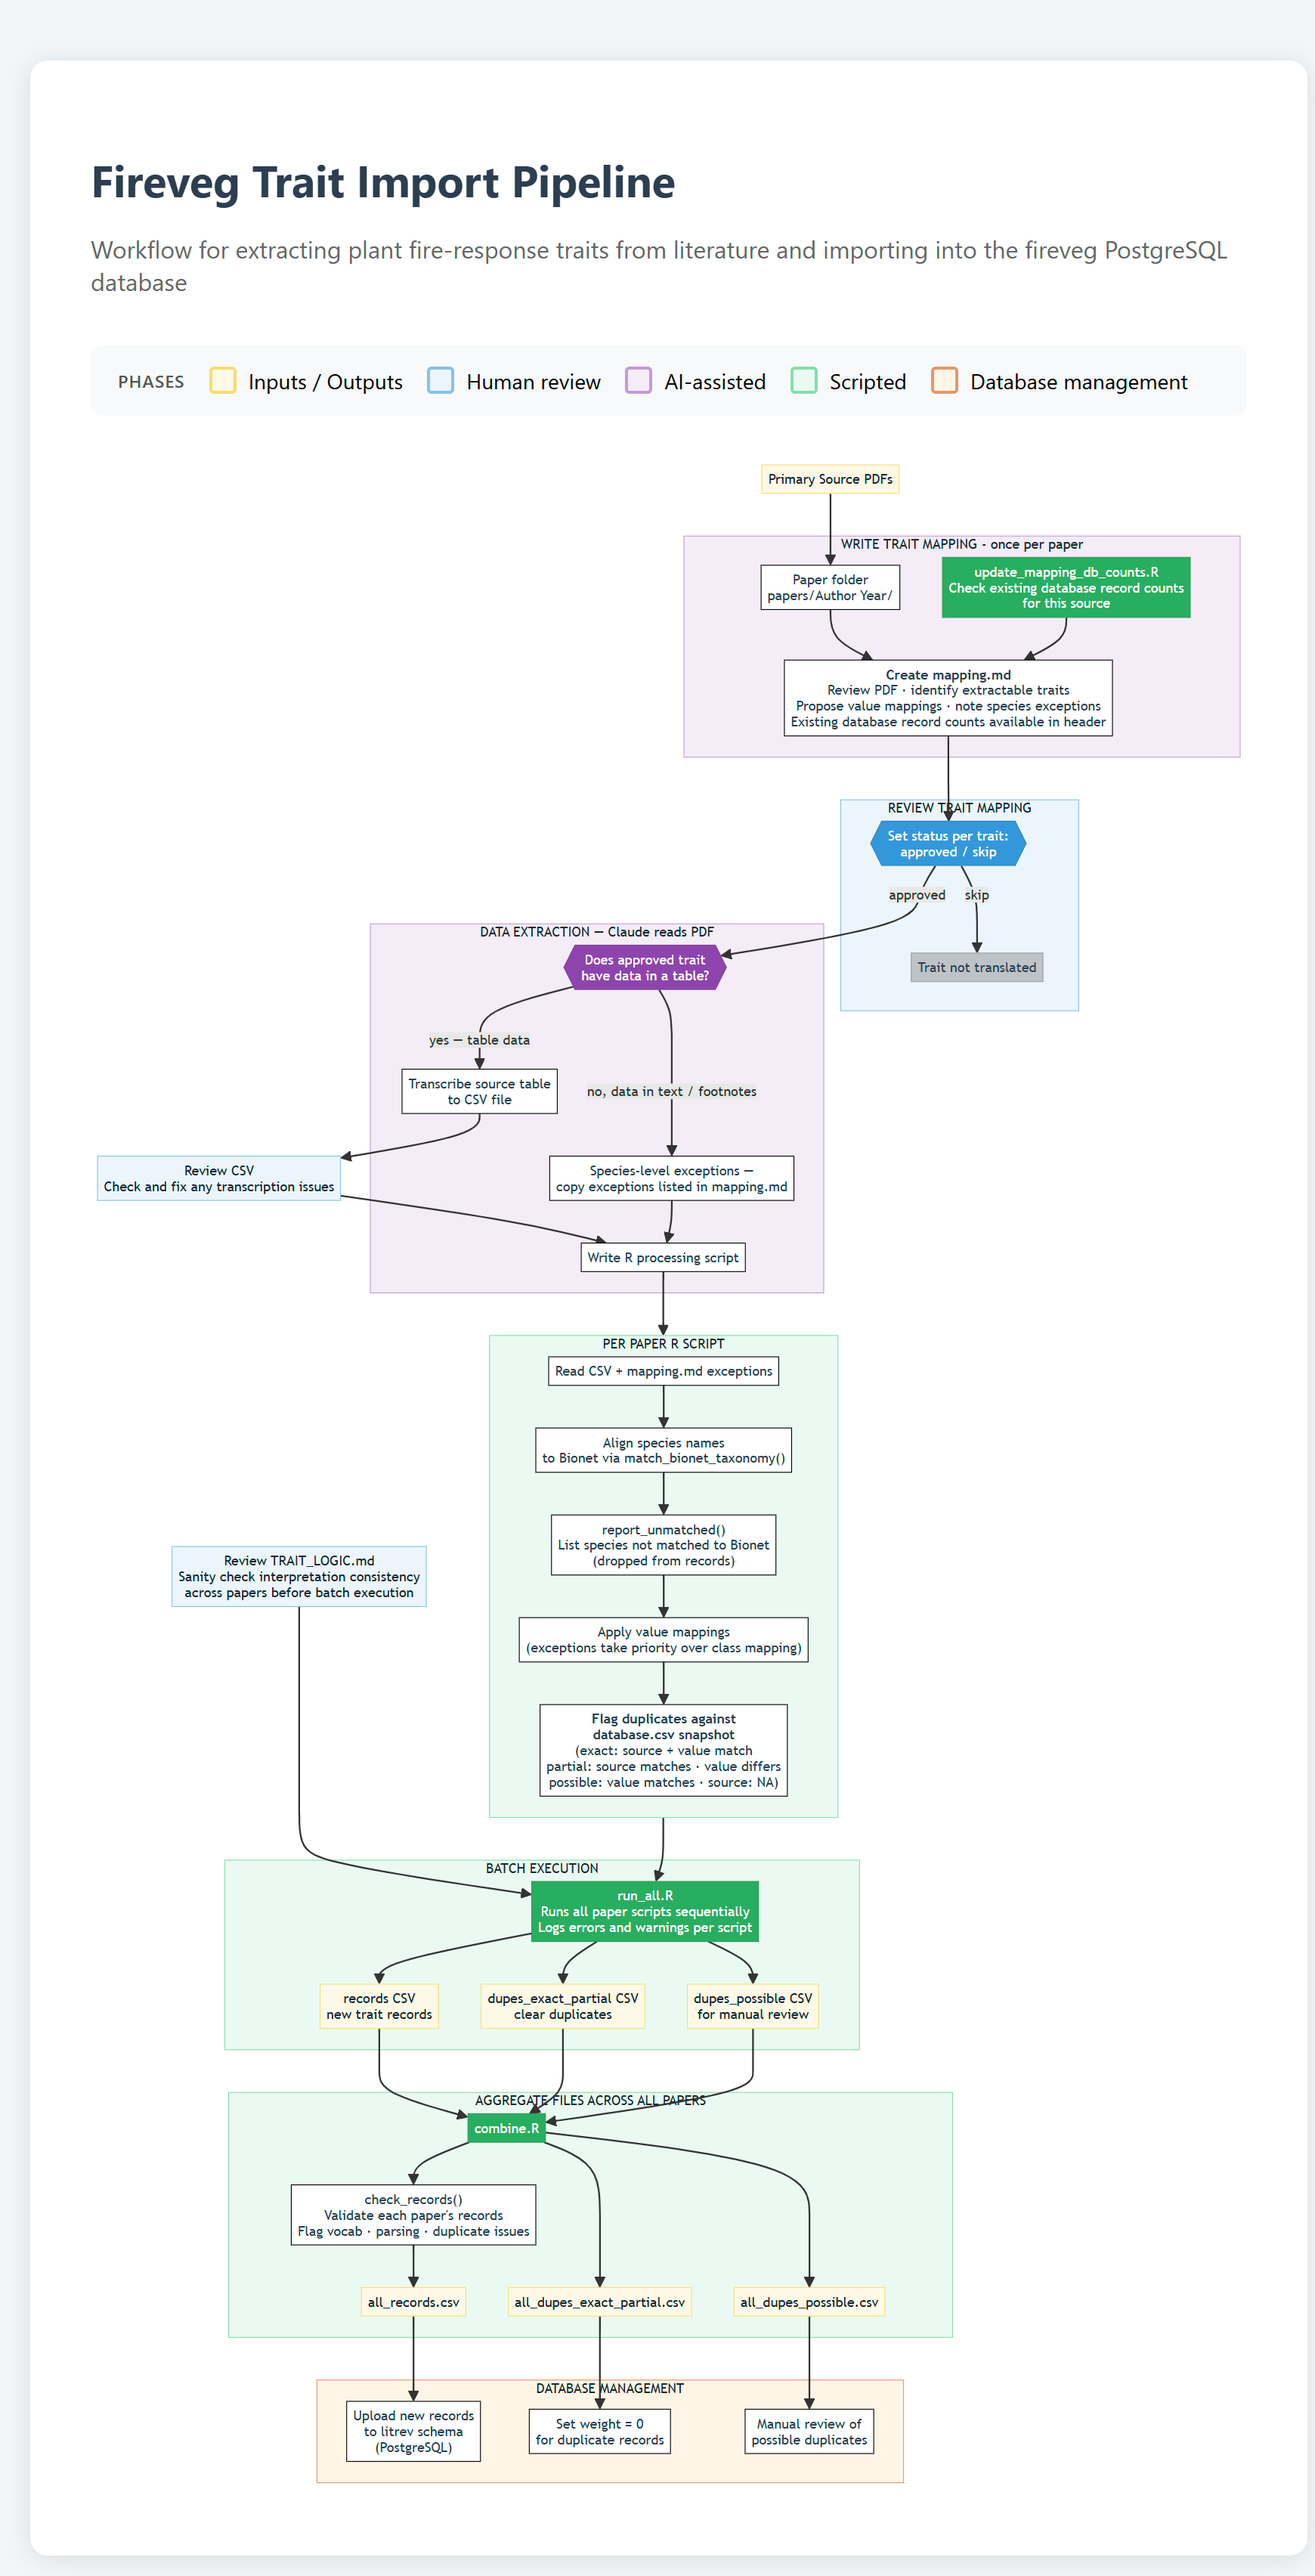
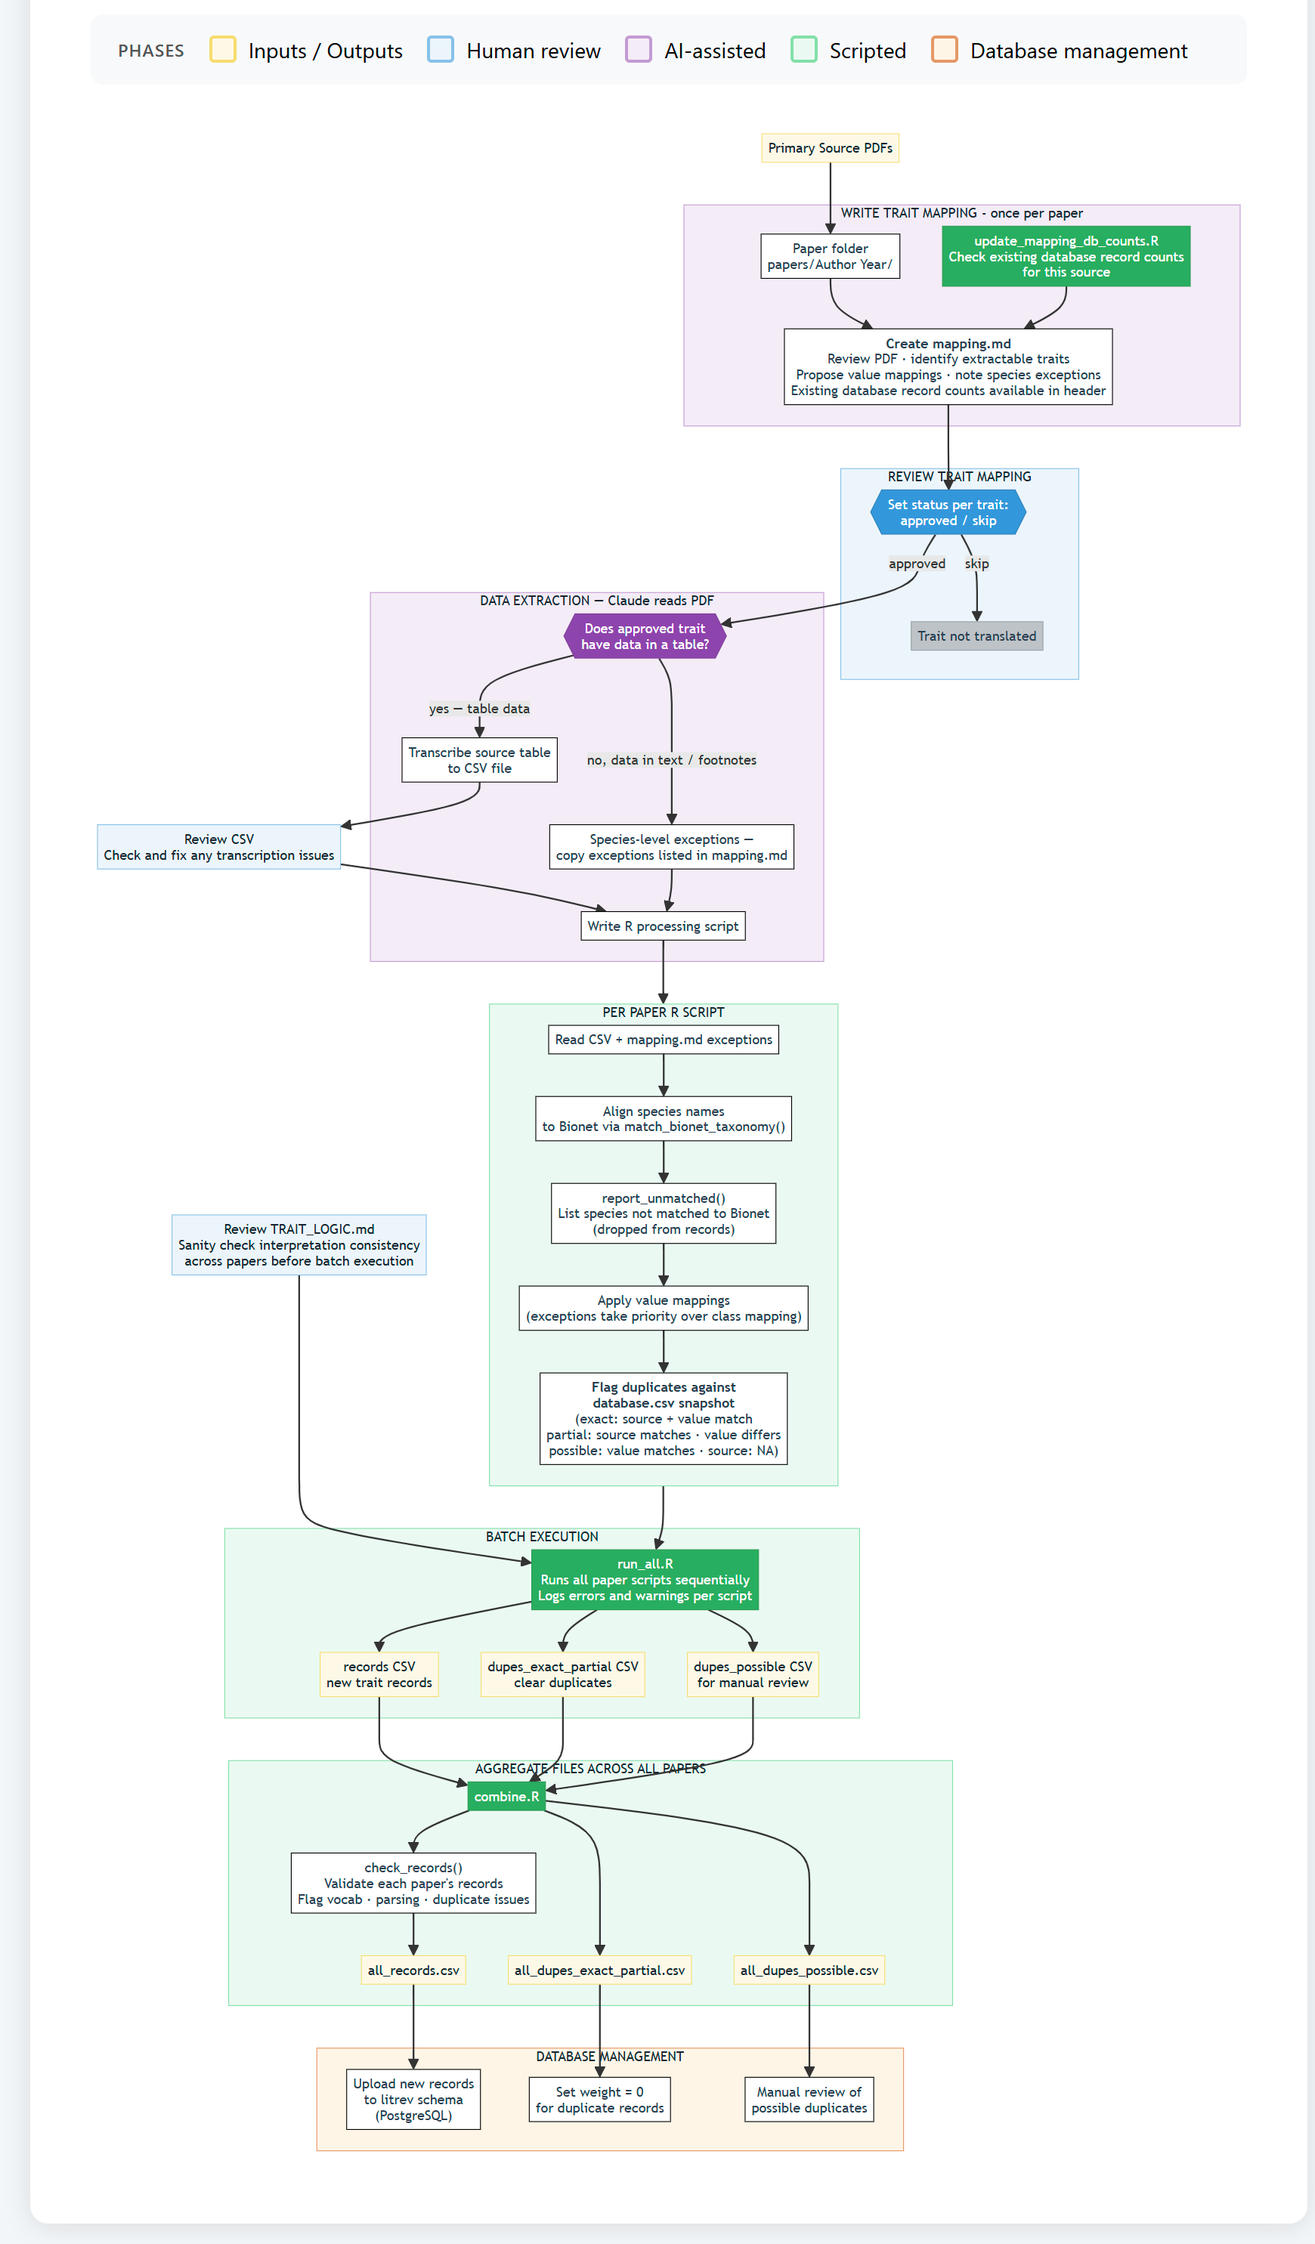
update README

diff --git a/README.md b/README.md
@@ -2,23 +2,17 @@
 
 A reproducible pipeline for extracting plant fire-response traits from published literature and importing them into the fireveg PostgreSQL database (`litrev` schema).
 
+The pipeline uses a Claude AI agent to assist with reading PDFs, transcribing tables, and automate writing R scripts — but every decision is reviewed and approved by a human before any data is processed. 
+
 ![Pipeline Workflow](workflow.png)
 
 For an interactive version open [workflow.html](workflow.html) in a browser.
 
 ---
 
-## What on earth is this?
-
-A pipeline for extracting plant fire-response traits from published literature and importing them into the fireveg PostgreSQL database (`litrev` schema). 
+## Repository structure
 
 This repository contains the **scripts, mapping files, and output records** for all papers processed so far. The intended use is ongoing: as new papers are identified, they can be added using the same workflow.
-
-The pipeline uses a Claude AI agent to assist with reading PDFs, transcribing tables, and writing R scripts — but every decision is reviewed and approved by a human before any data is processed. 
-
----
-
-## Repository structure
 
 ```
 fireveg-db-adele/
